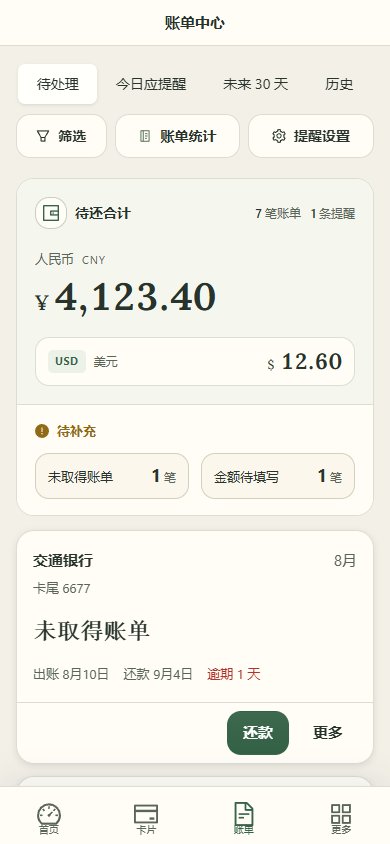
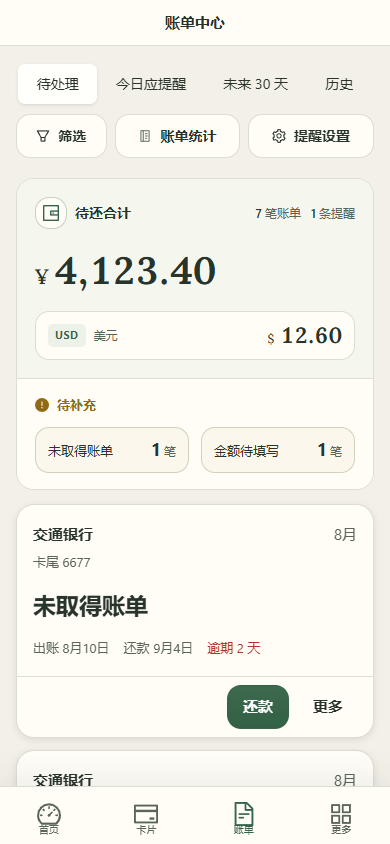
docs: 更新文档与截图，新增桌面专项复核

diff --git a/docs/skins/桌面专项复核.md b/docs/skins/桌面专项复核.md
@@ -1,0 +1,47 @@
+# 人民币显示与桌面布局专项复核
+
+日期：2026-09-06。使用生产前端、Edge 浏览器和隔离示例数据。
+
+本次既检查桌面是否使用适合鼠标、键盘和横向空间的布局，也检查内容是否可读、字段是否被压窄、按钮是否完整可见。仅确认页面没有横向溢出，不能证明布局合格。
+
+## 金额规则
+
+- 人民币以 `¥4,123.40` 显示，删除「人民币 / CNY」附加说明。
+- 外币标识放在金额前；没有人民币时仍保持前置顺序。
+- 账单中心、账单统计、卡片账单和皮肤预览通过共享汇总组件统一生效。还款流程与固定账单输入同时去除多余 CNY 标识。
+- 保留用于选择币种的控件；不更改金额、币种、排序或统计口径。
+
+## 页面与流程
+
+| 页面／流程 | 桌面结构与本次检查结果 | 手机结构 |
+|---|---|---|
+| 首页 | 多列统计、走势图、并排待办和安排；发现统计与走势偏高、列表固定 600px 留下大块空白，已缩减统计留白和图高，列表按内容伸展并设最大高度。 | 独立概览、触控待办和单列安排；原有内容与顺序保留。 |
+| 账单中心与统计 | 分离金额、记录数量、待补充信息；范围和筛选整合在表格工作区。复核完整金额、日期、历史分组和单笔操作。 | 纵向信息卡和独立操作区。 |
+| 卡片列表与详情 | 网格浏览、宽详情弹窗和套卡账单；核对每笔归属、还款目标与返回来源。 | 横向浏览卡片，详情为独立全屏流程。 |
+| 卡片编辑／卡信息 | 基础信息与账单提醒分栏；卡信息左右并排显示已存内容和编辑表单。PIN 验证保持短弹窗。 | 单列编辑和全屏 PIN 流程。 |
+| 还款 | 并排金额字段和还款选择，操作区可见。 | 独立选择、填写和确认流程。 |
+| 提醒设置与编辑 | 配置表格与宽编辑弹窗；提醒内容、周期通知并排，1024px 仍可一次看到主要字段和操作。 | 配置卡片与全屏编辑。 |
+| 统一明细 | 修正固定筛选宽度：窄桌面两列，宽桌面四列。金额固定在右侧，窄桌面也完整可见；其余字段在表格内部滚动，历史年份不再被账期列裁切。 | 描述为主的记录卡、触控筛选面板；面板样式覆盖完整的 1024px 以下范围。 |
+| 邮箱账户／日志 | 修正窄桌面的操作按钮溢出；连接信息在窄桌面归入邮箱单元格，操作合理换行。日志只在表格内滚动。 | 账户卡片与触控操作。 |
+| 邮箱编辑／历史拉取 | 连接与登录信息并排；测试、保存分别操作。进度按内容定宽，退出后可重开同一任务。 | 全屏编辑、稳定底部操作区。 |
+| 解析器与试解析 | 目录网格、四列／两列表单。发现执行结果虽未溢出，却被压成逐字换行；已给账单结果保留阅读宽度，窄桌面表内滚动，原文操作固定可见。 | 目录与结果卡片，字段按手机阅读顺序分区。 |
+| 设置与皮肤 | 密码与 PIN 并排、通知分区、皮肤网格及隔离预览；不把整张表单拉成一条长列。 | 设置单列、触控开关与皮肤预览。 |
+| 登录／安装／升级 | 登录使用适合短表单的宽度；安装使用双栏表单，修正横贯整栏的长按钮，将步骤操作收在右侧；升级说明与操作并排。 | 单列向导和触控主按钮，升级使用全屏流程。 |
+
+## 验证与证据
+
+常规页面覆盖两套皮肤的浅色、深色与 1440／390px；边界检查覆盖 360／768／1023／1024px。首页、明细专项增加 1366／1920px；邮箱、卡信息、执行结果和提醒编辑增加 1024／1366／1440px。
+
+浏览器检查同时核对主内容的滚动宽度、完整账期、可见操作、分区坐标、统计和列表高度、结果字段的实际阅读宽度。保留还款防重复提交、来源恢复、安装、试解析原文返回、历史任务重开、皮肤切换和草稿保护的回归。
+
+验证结果：后端完整 368 项、前端 20 项、两端类型检查及生产构建通过，安装按钮调整后追加的安装流程测试通过。首轮浏览器 48 项中 46 项通过，发现的邮箱溢出已修正；其余失败来自新增测试的坐标断言。后续页面与业务回归 31 项通过，4 项桌面专项在最终构建上经定向复验全部通过。人民币、外币顺序、汇总基线、两套皮肤日夜及皮肤预览在首轮相关用例中通过。
+
+原始截图保存在忽略目录 `.ui-fixture/desktop-review/`、`.ui-fixture/screenshots/` 和 `.ui-fixture/field-audit/`。精选结果如下：
+
+- [金额与状态](previews/modern-light-summary-desktop.png)
+- [首页桌面布局](previews/desktop-home.png)
+- [窄桌面邮箱](previews/desktop-email-1024.png)
+- [窄桌面试解析结果](previews/desktop-parser-1024.png)
+- [桌面安装向导](previews/desktop-setup.png)
+
+以上是当前页面和常用流程的实际复核记录，不以自动化通过代替视觉判断。所有操作使用示例账户和内存数据，未连接真实邮箱、推送或数据库。

diff --git a/docs/skins/制作规范.md b/docs/skins/制作规范.md
@@ -107,16 +107,19 @@ previews/mobile-dark.svg
 | 页面、表单 | `.page`、`.page-mobile`、`.page-desktop`、`.business-flow`、`.mobile-flow-screen` |
 | 汇总容器 | `.agenda-totals`、`.agenda-summary-overview`、`.agenda-summary-header`、`.agenda-summary-title`、`.agenda-summary-icon` |
 | 汇总金额 | `.agenda-summary-amounts`、`.agenda-summary-primary`、`.agenda-summary-other`、`.agenda-summary-currency`、`.agenda-summary-currency-code`、`.agenda-summary-currency-name`、`.agenda-summary-value`、`.agenda-summary-unit`、`.agenda-summary-number` |
-| 汇总辅助信息 | `.agenda-summary-metrics`、`.agenda-summary-notices`、`.agenda-summary-notice-heading`、`.agenda-summary-notes`、`.agenda-summary-notice-label`、`.agenda-summary-notice-count` |
+| 汇总辅助信息 | `.agenda-summary-records`、`.agenda-summary-metrics`、`.agenda-summary-metric-icon`、`.agenda-summary-metric-copy`、`.agenda-summary-metric-number`、`.agenda-summary-notices`、`.agenda-summary-notice-heading`、`.agenda-summary-notes`、`.agenda-summary-notice-label`、`.agenda-summary-notice-count` |
 | 只读字段 | `[data-skin-slot="facts"]`、`.info-fields`、`.info-field`、`.info-field-unit`；名称与内容保持配对，数值和单位按文字基线对齐 |
 | 设置开关 | `[data-skin-slot="switch"]`、`.setting-switch`、`.settings-delivery-row`；开关内不放状态文字，保留至少 44px 的操作区域、键盘焦点、加载与禁用反馈 |
 | 分区表单 | `.presentation-form-section`、`.parser-run-form`、`.cards-edit-sections`；同排标签和输入控件采用一致起点 |
 | 账单 | `.agenda-period`、`.agenda-period-link`、`.agenda-identity`、`.agenda-amount`、`.agenda-dates`、`.agenda-mobile-row`、`.agenda-row-actions`、`.agenda-history-group`、`.agenda-history-heading` |
+| 桌面账单 | `.agenda-workspace`、`.agenda-table-search`、`.agenda-table`、`.agenda-record-identity`、`.agenda-record-mark`、`.agenda-record-description`、`.agenda-date-cell`、`.agenda-date-secondary`、`.agenda-money-cell`、`.agenda-minimum`、`.agenda-status-cell`、`.agenda-record-actions`；日期按名称和值对齐，最低还款额归入金额列，状态与单笔操作各自独立 |
 | 交易明细 | `.transaction-context`、`.transaction-mobile-card`、`.transaction-description`、`.transaction-amount` |
 | 通用组件 | `.ant-btn`、`.ant-input`、`.ant-input-affix-wrapper`、`.ant-select`、`.ant-picker`、`.ant-card`、`.ant-table`、`.ant-tag`、`.ant-menu`、`.ant-modal`、`.adm-popup-body` |
 | 银行卡 | `.bank-card` 及其现有子元素；保留清晰的卡片身份与掩码信息 |
 
-金额汇总的电脑布局并列展示主要金额与其他币种，手机布局将外币收为紧凑的独立栏。笔数位于标题区，缺少账单或待填金额各自位于独立状态块。状态名称、数量及单位须保持同一文字基线，宽度不足时整块换行。皮肤可分别定制这些区域的材质、字体与形状，但不能将不同币种合并成一个金额，或将只读状态做成操作入口。
+电脑端采用独立的金额卡、记录数量卡和待补充卡。金额卡用明确的明暗层次突出主币种，其他币种独立列出；下方账单面板包含查看范围、搜索、筛选和记录列表。`.agenda-summary-overview` 的 `--summary-card-background`、`--summary-card-text`、`--summary-card-muted` 可定制金额卡的背景、正文与辅助文字，浅色和深色须分别保持可读。手机端保留纵向信息卡，外币、缺少账单和待填金额各自使用独立区域。状态名称、数量及单位须保持同一文字基线，宽度不足时整块换行。皮肤可分别定制材质、字体与形状，但不能将不同币种合并成一个金额，或将只读状态做成操作入口。
+
+人民币金额仅显示 `¥` 和数值，不附加「人民币」或「CNY」标签。外币标识位于金额之前，只有外币时也遵守相同顺序；币种选择器继续明确标识可选币种。皮肤不得用伪元素重新添加人民币说明或调换外币标识顺序。
 
 例如，下面的定义除了颜色还改变字体、按钮造型与背景材质：
 

diff --git a/docs/skins/全站字段验收.md b/docs/skins/全站字段验收.md
@@ -53,3 +53,20 @@
 | 卡片编辑 | [查看](previews/fields/card-editor-desktop.png) | [查看](previews/fields/card-editor-mobile.png) |
 | 还款 | [查看](previews/fields/payment-desktop.png) | [查看](previews/fields/payment-mobile.png) |
 | 通知设置 | [查看](previews/fields/notifications-desktop.png) | [发送状态](previews/modern-light-switch-mobile.png) |
+
+## 2026-09-06 电脑端视觉与布局更新
+
+电脑端采用独立的金额概览和账单工作区，字段对齐、信息密度与操作可见性共同验收。
+
+- 金额卡、记录数量卡和待补充卡分别呈现；主要金额使用鲜明的明暗层次，深色模式采用适合夜间阅读的材质。账单中心、统计和套卡账单共用，手机保留原布局。
+- 查看范围、搜索、筛选与账单清单整合为一个面板；页标题、导航和操作按钮采用统一的大小、字重与留白。
+- 账单行增加卡片／账单／提醒身份标识；日期按名称和值对齐，还款日期优先，最低还款额放入金额列，逾期信息放入状态列。每笔主操作保持可见，更多操作使用带可访问名称的菜单按钮。
+- 检查内容容器的实际滚动宽度、历史年份和每笔操作按钮的边界；单币种、30 笔未取得账单场景覆盖 1024／1280／1366／1920px，保留多币种、长金额、空态、两端日夜与基线检查。
+- 皮肤隔离预览根据预览设备选择正确的汇总布局，避免电脑上预览手机效果时混入桌面组件。
+- 后端完整 368 项、前端 20 项、两端类型检查与生产构建通过。浏览器全站 65 项中发现两处窄桌面历史操作列溢出，修正后相关 17 项复验全部通过；其余 63 项在全站回归中通过。
+- 最终列宽复核补充历史日期完整单行检查，8 项布局用例再次通过。
+- 使用生产构建复核并更新 README 电脑端截图、四种桌面皮肤效果及汇总预览。浏览器使用隔离示例数据。
+
+桌面效果：[克制现代](previews/modern-light-desktop.png)／[温润账本](previews/warm-ledger-light-desktop.png)／[克制现代深色](previews/modern-dark-desktop.png)／[温润账本深色](previews/warm-ledger-dark-desktop.png)。
+
+后续针对人民币重复标识与「手机布局放大到电脑」的检查、遗漏修正及验证范围，见 [桌面专项复核](桌面专项复核.md)。

diff --git a/README.md b/README.md
@@ -47,7 +47,7 @@
 
 - **每笔账单归属清楚**：未还和部分已还账单逐笔显示银行、卡尾、账期、待还金额与还款日；合并账单列出涉及的卡尾，只显示和统计一次。
 - **同一账单不重复提醒**：提前提醒、到期提醒附在对应账单上，不重复增加账单行或累计金额。
-- **汇总与状态分开呈现**：不同币种分别汇总，未取得账单与金额待填写单独标明；常规提醒、出账提醒和年费提醒不计入待还金额。
+- **汇总与状态分开呈现**：人民币直接显示 `¥` 金额，外币标识置于金额前，不同币种分别汇总。未取得账单与金额待填写单独标明；常规提醒、出账提醒和年费提醒不计入待还金额。
 - **历史按账期整理**：已还清账单折叠归组，显示完整账期的笔数和分币种合计；同月尚未还清的账单继续逐笔显示。
 - **快速定位记录**：可按银行、卡片和记录类型筛选，或搜索银行、卡尾与提醒名称。
 - **处理后留在原处**：还款或完成提醒后更新记录与汇总；提醒的新增、编辑、停用和删除集中在「提醒设置」，金额走势收在「账单统计」。
@@ -165,9 +165,11 @@
 
 以下为当前源码版本的实际界面截图，均使用示例数据。
 
+页面与常用表单的电脑端专项检查见 [桌面布局复核](./docs/skins/桌面专项复核.md)。
+
 ### 账单中心（电脑端）
 
-![新版账单中心电脑端：统一清单、分币种金额与独立状态区域](./docs/images/bill-center-desktop.png)
+![账单中心电脑端：独立金额概览、记录状态与统一账单工作区](./docs/images/bill-center-desktop.png)
 
 ### 手机端
 
